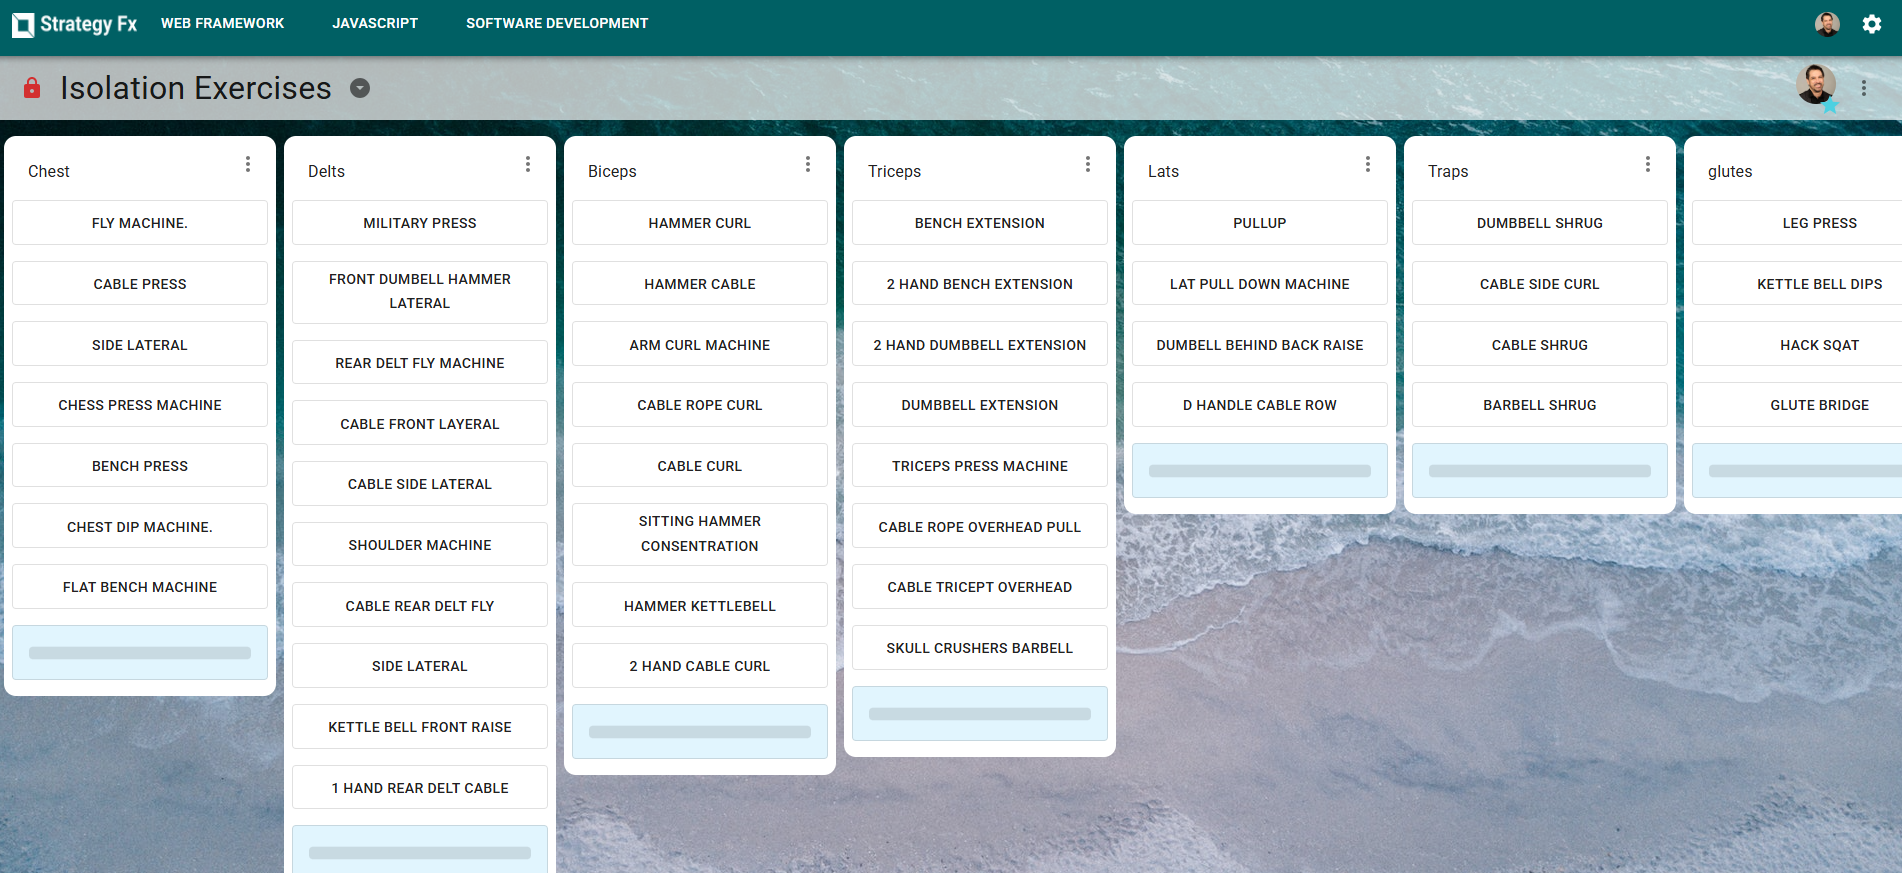
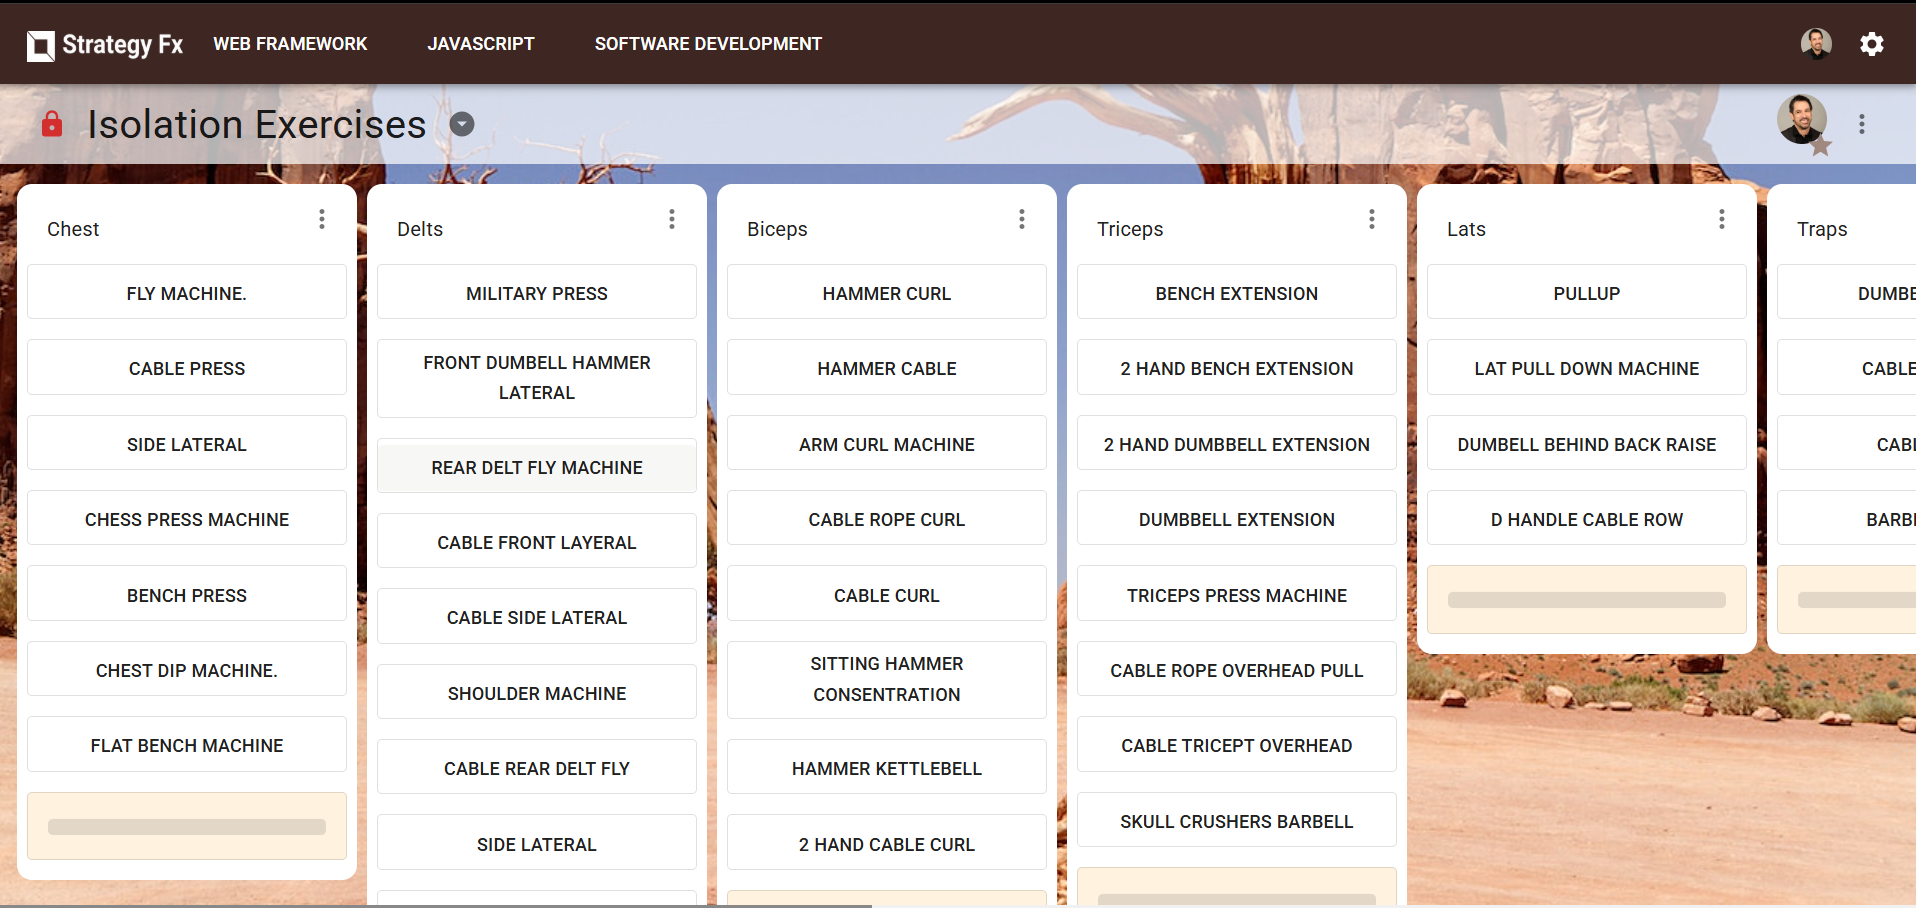
Replace the mosaic hero with a fanned screenshot collage
The previous collage used object-fit: cover to force mismatched
screenshots into a grid, which sliced through UI text and controls.
New screenshots are all taken at the same window size (~1917x905),
so this collage overlaps three full, unclipped screenshots (Strategy
board, workout board, and the item detail dialog on top) like a
fanned stack instead of cropping them into tiles.

Gallery images now share the screenshots' native aspect ratio
instead of an arbitrary 4:3, so nothing gets cropped there either.

diff --git a/pages/HomePage.tsx b/pages/HomePage.tsx
@@ -80,30 +80,42 @@ const CoverImg = ({src, alt, sizes, priority}: CoverImgProps) => (
     style={{ objectFit: 'cover' }} />
 )
 
-const HeroCollageSx = { mt: 5, mx: 'auto', maxWidth: '900px', textAlign: 'left',
-  border: '1px solid', borderColor: 'divider', borderRadius: 3, overflow: 'hidden',
-  boxShadow: 4, bgcolor: 'divider', display: 'grid', gap: '4px', aspectRatio: '16 / 9',
-  gridTemplateColumns: '2fr 1fr', gridTemplateRows: '1fr 1fr',
-  gridTemplateAreas: '"main top" "main bottom"' }
+const SCREENSHOT_RATIO = '1917 / 905'
 
-const collageTileSx = (area: string) => ({ gridArea: area, position: 'relative' })
+const HeroCollageSx = { mt: 6, mb: 2, mx: 'auto', maxWidth: '820px', position: 'relative',
+  aspectRatio: '16 / 11' }
+
+interface CollageCardPlacement {
+  top: string
+  left: string
+  width: string
+  rotate: number
+  z: number
+}
+
+const collageCardSx = ({top, left, width, rotate, z}: CollageCardPlacement) => ({
+  position: 'absolute', top, left, width, aspectRatio: SCREENSHOT_RATIO,
+  transform: `rotate(${rotate}deg)`, zIndex: z, bgcolor: 'background.paper',
+  border: '1px solid', borderColor: 'divider', borderRadius: 2, overflow: 'hidden',
+  boxShadow: z === 3 ? 8 : 3,
+})
 
 const HeroCollage = () => (
   <Box sx={HeroCollageSx}>
-    <Box sx={collageTileSx('main')}>
-      <CoverImg src={'/images/marketing/Team-Page.png'} priority
-        sizes={'(max-width: 900px) 66vw, 600px'}
-        alt={'Strategy Fx card detail dialog with a code snippet, checklist and comments'} />
+    <Box sx={collageCardSx({top: '0%', left: '2%', width: '62%', rotate: -6, z: 1})}>
+      <CoverImg src={'/images/marketing/Strategy-Board.png'}
+        sizes={'(max-width: 820px) 62vw, 500px'}
+        alt={'A Strategies board with Standards, Best Practices and Philosophies columns'} />
     </Box>
-    <Box sx={collageTileSx('top')}>
+    <Box sx={collageCardSx({top: '24%', left: '36%', width: '62%', rotate: 5, z: 2})}>
       <CoverImg src={'/images/marketing/Workout-Board.png'}
-        sizes={'(max-width: 900px) 33vw, 300px'}
+        sizes={'(max-width: 820px) 62vw, 500px'}
         alt={'A workout board tracking isolation exercises by muscle group'} />
     </Box>
-    <Box sx={collageTileSx('bottom')}>
-      <CoverImg src={'/images/marketing/Board-Page.png'}
-        sizes={'(max-width: 900px) 33vw, 300px'}
-        alt={'A board using the Ocean background theme'} />
+    <Box sx={collageCardSx({top: '12%', left: '19%', width: '64%', rotate: 0, z: 3})}>
+      <CoverImg src={'/images/marketing/Standards-Item.png'} priority
+        sizes={'(max-width: 820px) 64vw, 520px'}
+        alt={'A card detail dialog showing a React useReducer code example'} />
     </Box>
   </Box>
 )
@@ -136,8 +148,8 @@ const Hero = ({onSignIn}: {onSignIn: () => void}) => (
 interface GalleryImage { src: string; alt: string; caption: string }
 
 const GALLERY: GalleryImage[] = [
-  { src: '/images/marketing/Screenshot%202023-08-28%20203738.png',
-    alt: 'A JavaScript best-practices board with three columns of cards',
+  { src: '/images/marketing/Best-Practice.png',
+    alt: 'A React card detail page documenting the useReducer hook',
     caption: 'Boards for anything, not just code' },
   { src: '/images/marketing/Member-Page.png',
     alt: 'A member dashboard listing their projects',
@@ -147,7 +159,7 @@ const GALLERY: GalleryImage[] = [
     caption: 'Project & team management' },
 ]
 
-const GalleryTileSx = { position: 'relative', aspectRatio: '4 / 3', border: '1px solid',
+const GalleryTileSx = { position: 'relative', aspectRatio: SCREENSHOT_RATIO, border: '1px solid',
   borderColor: 'divider', borderRadius: 2, overflow: 'hidden' }
 const GallerySizes = '(max-width: 600px) 100vw, (max-width: 900px) 50vw, 33vw'
 
